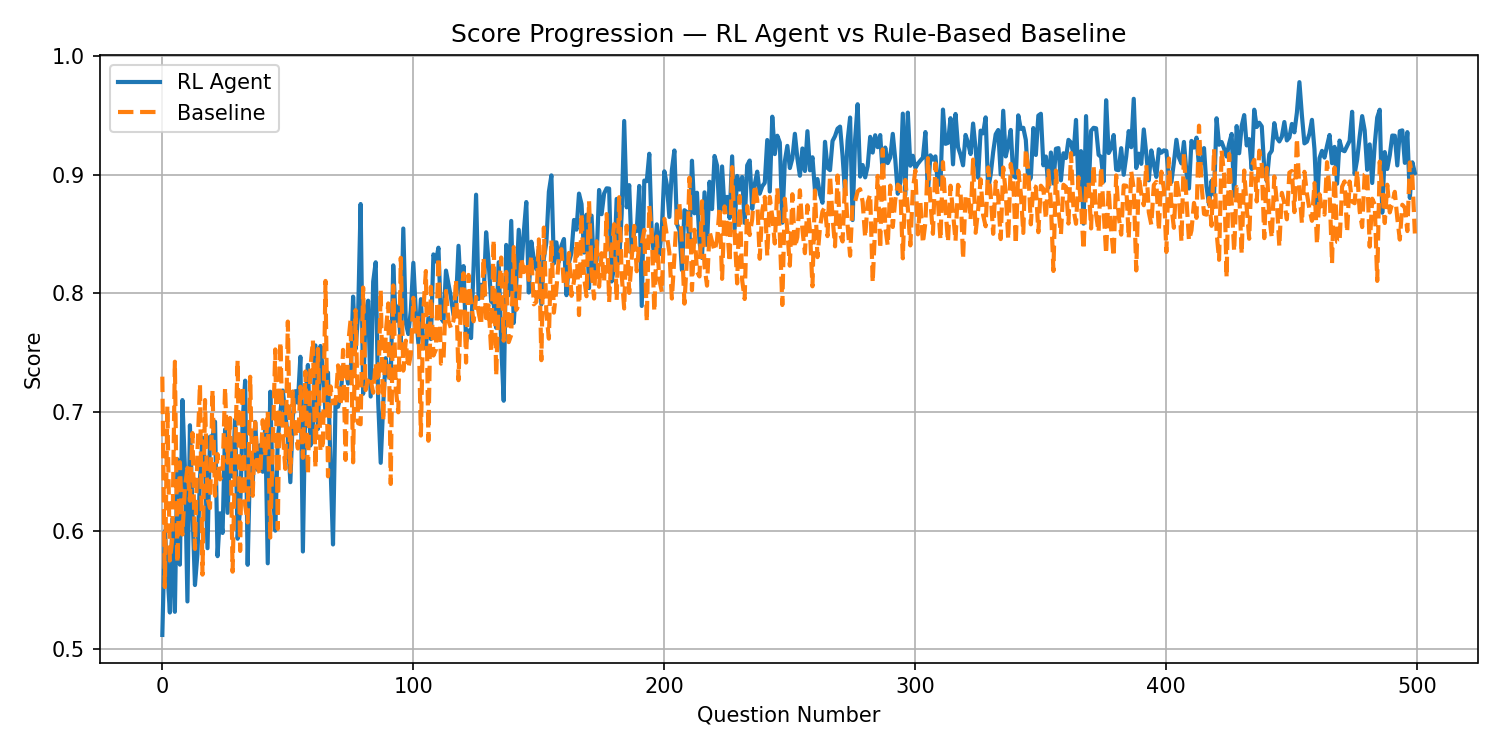
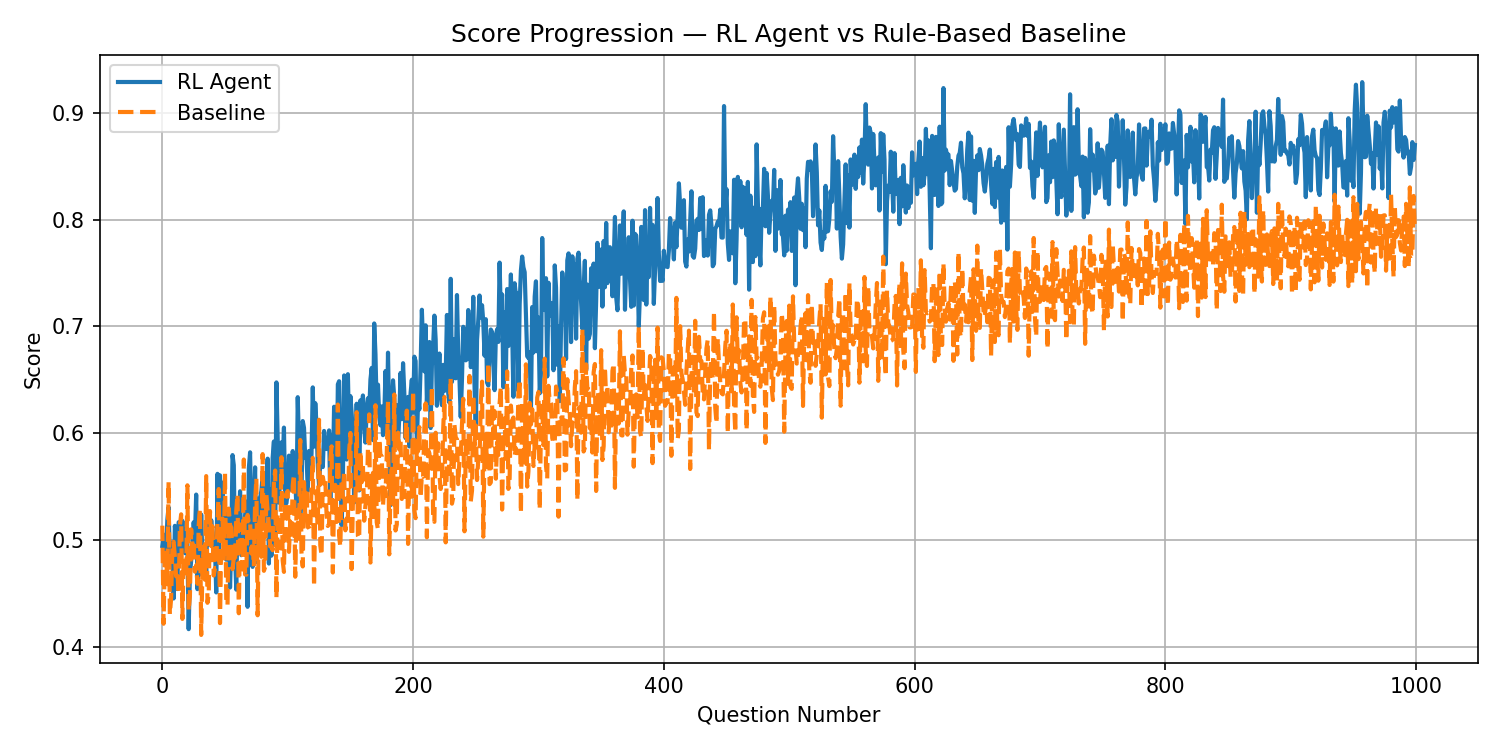
Update for prerequisite mastery + new reward
Mastery is done only when all kinds of questions with different difficulty each has score above a certain threshold. Separate loose criteria to see if a topic that is prerequisite of topic B is sufficient to unlock topic B. New rewards one for choosing topics that are prerequisites of locked topic and another for advancing to higher difficulty is defined.

diff --git a/evaluate.py b/evaluate.py
@@ -9,8 +9,8 @@ from Agent import AdaptiveAgent
 
 class RuleBasedAgent:
     
-    def __init__(self, topics_difficulty, w1, w2, w3):
-        self.ks  = KnowledgeState(topics_difficulty=topics_difficulty, window_size=10)
+    def __init__(self, topics_difficulty, prerequisites, w1, w2, w3):
+        self.ks  = KnowledgeState(topics_difficulty=topics_difficulty, prerequisites = prerequisites, window_size=10)
         self.mdp = MDP(
             list(topics_difficulty.keys()),
             difficulty_types=['basic', 'intermediate', 'advanced'],
@@ -49,13 +49,21 @@ class RuleBasedAgent:
         self.last_score = defaultdict(float)
         self.curr_diff  = {t: 'basic' for t in self.topics}
         for topic in self.topics:
-            self.ks.topic_score[topic]  = 0.0
-            self.ks.attempts[topic]     = 0
+            self.ks.topic_score[topic]   = 0.0
+            self.ks.attempts[topic]      = 0
             self.ks.recent_scores[topic].clear()
-            self.ks.prev_qtype[topic]   = (None, None)
+            self.ks.combo_scores[topic] = defaultdict(list)
+            self.ks.prev_qtype[topic]    = (None, None)
+            self.ks.current_level[topic] = {
+                'diff_idx'        : 0,
+                'qtype_idx'       : 0,
+                'earned_diff_idx' : 0,
+                'earned_qtype_idx': 0
+            }
+        self.ks.prev_topic = None
 
 
-def run_agent_session(agent, simulator, topics, n_questions, is_rl=True):
+def run_agent_session(agent, simulator, topics, n_questions, is_rl=True, student_nos = 0):
     """
     Runs one session for either agent.
     Returns:
@@ -77,7 +85,7 @@ def run_agent_session(agent, simulator, topics, n_questions, is_rl=True):
             topic, diff, qtype  = agent.select_action()
 
         score = simulator.get_score(topic, diff, qtype)
-        if is_rl:
+        if is_rl and student_nos == 0:
             print(f"Step {step}: {topic} | {diff} | {qtype} | score: {score:.2f}")
         agent.update(topic, score, diff, qtype)
 
@@ -92,12 +100,19 @@ def run_agent_session(agent, simulator, topics, n_questions, is_rl=True):
 
 
 def reset_rl_agent(agent, topics):
-    """Reset RL agent knowledge state between sessions."""
     for topic in topics:
-        agent.ks.topic_score[topic]  = 0.0
-        agent.ks.attempts[topic]     = 0
+        agent.ks.topic_score[topic]   = 0.0
+        agent.ks.attempts[topic]      = 0
         agent.ks.recent_scores[topic].clear()
-        agent.ks.prev_qtype[topic]   = (None, None)
+        agent.ks.combo_scores[topic] = defaultdict(list)
+        agent.ks.prev_qtype[topic]    = (None, None)
+        agent.ks.current_level[topic] = {
+            'diff_idx'        : 0,
+            'qtype_idx'       : 0,
+            'earned_diff_idx' : 0,
+            'earned_qtype_idx': 0
+        }
+    agent.ks.prev_topic = None
 
 
 def print_per_topic_report(topics, topics_difficulty,
@@ -134,7 +149,7 @@ def print_per_topic_report(topics, topics_difficulty,
 # Main evaluation
 # ---------------------------------------------------------------------------
 
-def evaluate(topics_difficulty, w1=0.4, w2=0.5, w3=0.1, n_students=10, n_questions=500):
+def evaluate(topics_difficulty, prerequisites, w1=0.4, w2=0.5, w3=0.1, n_students=10, n_questions=500):
     """
     Compare RL agent vs rule-based baseline on n_students simulated students.
     Both agents face identical simulated students for fair comparison.
@@ -143,8 +158,8 @@ def evaluate(topics_difficulty, w1=0.4, w2=0.5, w3=0.1, n_students=10, n_questio
     simulator = Simulator(topic_difficulty=topics_difficulty)
 
     print("Pretraining RL agent...")
-    rl_agent       = AdaptiveAgent(topics_difficulty, w1=w1, w2=w2, w3=w3)
-    baseline_agent = RuleBasedAgent(topics_difficulty, w1=w1, w2=w2, w3=w3)
+    rl_agent       = AdaptiveAgent(topics_difficulty, prerequisites, w1=w1, w2=w2, w3=w3)
+    baseline_agent = RuleBasedAgent(topics_difficulty, prerequisites, w1=w1, w2=w2, w3=w3)
     print("Pretraining done.\n")
 
     # storage
@@ -167,14 +182,14 @@ def evaluate(topics_difficulty, w1=0.4, w2=0.5, w3=0.1, n_students=10, n_questio
         baseline_agent.reset(topics_difficulty)
         simulator.mastery_topic = saved_mastery.copy()
         b_scores, b_mastered, b_mastery_steps, b_per_topic = run_agent_session(
-            baseline_agent, simulator, topics, n_questions, is_rl=False
+            baseline_agent, simulator, topics, n_questions, is_rl=False, student_nos = student
         )
 
         # --- run RL agent (same student) ---
         reset_rl_agent(rl_agent, topics)
         simulator.mastery_topic = saved_mastery.copy()
         rl_scores, rl_mastered, rl_mastery_steps, rl_per_topic = run_agent_session(
-            rl_agent, simulator, topics, n_questions, is_rl=True
+            rl_agent, simulator, topics, n_questions, is_rl=True, student_nos = student
         )
 
         # store results
@@ -206,7 +221,9 @@ def evaluate(topics_difficulty, w1=0.4, w2=0.5, w3=0.1, n_students=10, n_questio
     print(f"{'Metric':<30} {'Baseline':>10} {'RL Agent':>10}")
     print("="*55)
     print(f"{'Avg Final Score':<30} {baseline_avg_score:>10.3f} {rl_avg_score:>10.3f}")
-    print(f"{'Avg Topics Mastered':<30} {baseline_avg_mastered:>10.2f} {rl_avg_mastered:>10.2f}")
+    print(f"{'Avg Topics Mastered':<30} "
+      f"{np.mean(baseline_mastered_all):>6.2f} ± {np.std(baseline_mastered_all):.2f}   "
+      f"{np.mean(rl_mastered_all):>6.2f} ± {np.std(rl_mastered_all):.2f}")
     print("="*55)
 
     # per topic breakdown
@@ -252,7 +269,6 @@ def evaluate(topics_difficulty, w1=0.4, w2=0.5, w3=0.1, n_students=10, n_questio
 
 
 if __name__ == "__main__":
-
     topics_difficulty = {
         "Neural Networks"     : "advanced",
         "Gradient Descent"    : "intermediate",
@@ -261,9 +277,12 @@ if __name__ == "__main__":
         "Overfitting"         : "intermediate"
     }
 
-    evaluate(
-        topics_difficulty,
-        w1=0.4, w2=0.5, w3=0.1,
-        n_students=10,
-        n_questions=500
-    )
+    prerequisites = {
+        "Neural Networks"     : [],
+        "Gradient Descent"    : [],
+        "Activation Functions": [],
+        "Overfitting"         : ["Neural Networks"],
+        "Backpropagation"     : ["Neural Networks", "Gradient Descent"]
+    }
+
+    evaluate(topics_difficulty, prerequisites, w1=0.4, w2=0.5, w3=0.1, n_students=50, n_questions=1000)

diff --git a/knowledge_state.py b/knowledge_state.py
@@ -14,10 +14,11 @@ class KnowledgeState:
         self.recent_scores = defaultdict(lambda: deque(maxlen=window_size))  
         self.attempts = defaultdict(int)
         self.prev_qtype = defaultdict(lambda: (None,None))
+        self.combo_scores = defaultdict(lambda: defaultdict(list))
         self.current_level = {topic: {'diff_idx': 0, 'qtype_idx': 0,'earned_diff_idx': 0, 'earned_qtype_idx': 0} for topic in self.topics }
         self.prev_topic = None
 
-        self.master_thresh = {'basic' : 0.90, 'intermediate' : 0.85, 'advanced':0.75}
+        self.master_thresh = {'basic' : 0.75, 'intermediate' : 0.65, 'advanced':0.55}
         self.ordinal_order_difficulty = {'basic' : 0.2, 'intermediate' : 0.6, 'advanced': 1}
         self.question_type_encoding = {'factual' : 0.2, 'inferential' : 0.6, 'evaluative': 1}
         self.diff_order    = {'basic' : 0, 'intermediate' : 1, 'advanced': 2}
@@ -26,9 +27,15 @@ class KnowledgeState:
 
     def prerequisites_met(self, topic):
         for prereq in self.prerequisites_topic.get(topic, []):
-            if not self.is_mastered(prereq):
+            if not self.is_sufficiently_understood(prereq):
                 return False
         return True
+    
+    def is_sufficiently_understood(self, topic):
+        topic_difficulty = self.topics_difficulty[topic]
+        sufficiency_thresh = {'basic' : 0.65, 'intermediate' : 0.55, 'advanced' : 0.45}
+        threshold = sufficiency_thresh[topic_difficulty]
+        return (self.attempts[topic] >= 5 and self.topic_score[topic] >= threshold and self.trend(topic) >= 0)
 
     def update(self, topic, score, difficulty,question_type):
         
@@ -37,7 +44,27 @@ class KnowledgeState:
         self.recent_scores[topic].append(score)       
         self.prev_qtype[topic] = (difficulty, question_type)
         self.prev_topic = topic
+        self.combo_scores[topic][(difficulty, question_type)].append(score)
         self.update_current_level(topic, difficulty, question_type)
+
+    def get_combo_threshold(self, topic, difficulty, question_type):
+        topic_base = self.master_thresh[self.topics_difficulty[topic]]
+        
+        # adjustment based on question difficulty
+        diff_adjustment = {
+            'basic'        :  0.10,   
+            'intermediate' :  0.05,
+            'advanced'     :  0.00    
+        }
+        
+        # adjustment based on question type
+        qtype_adjustment = {
+            'factual'     :  0.05,   
+            'inferential' :  0.02,
+            'evaluative'  :  0.00    
+        }
+        
+        return (topic_base + diff_adjustment[difficulty] + qtype_adjustment[question_type])
 
     def update_current_level(self, topic, difficulty, question_type):
         diff_idx  = self.diff_order[difficulty]
@@ -80,11 +107,31 @@ class KnowledgeState:
         slope = float(np.polyfit(x, recent, 1)[0])
         return float(np.clip(slope, -1.0, 1.0))
 
-    def is_mastered(self, topic,min_attempts= 3):
+    def is_mastered(self, topic, min_attempts=3):
         topic_difficulty = self.topics_difficulty[topic]
-        threshold = self.master_thresh[topic_difficulty]
-        trend_eval = self.trend(topic)
-        return (self.attempts[topic] >= min_attempts and self.topic_score[topic] >= threshold and trend_eval >= 0)
+        threshold        = self.master_thresh[topic_difficulty]
+        trend_eval       = self.trend(topic)
+
+        if self.attempts[topic] < min_attempts or trend_eval < 0:
+            return False
+
+        all_combos = {
+            (d, q)
+            for d in difficulty_level
+            for q in question_types
+        }
+
+        
+        for combo in all_combos:
+            diff, qtype = combo
+            scores = self.combo_scores[topic][combo]
+            if not scores:                          
+                return False
+            threshold = self.get_combo_threshold(topic, diff, qtype)
+            if np.mean(scores) < threshold:         
+                return False
+
+        return True
 
     def is_neglected(self, topic):
         return self.attempts[topic] == 0

diff --git a/Agent.py b/Agent.py
@@ -6,6 +6,7 @@ from MDP import MDP
 from policy_network import PolicyNetwork
 from Simulator import Simulator
 import matplotlib.pyplot as plt
+from collections import defaultdict, deque
 
 class AdaptiveAgent:
 
@@ -51,6 +52,7 @@ class AdaptiveAgent:
             self.ks.attempts[topic] = 0
             self.ks.recent_scores[topic].clear()
             self.ks.prev_qtype[topic] = (None, None)
+            self.ks.combo_scores[topic] = defaultdict(list)
             self.ks.current_level[topic] = { 'diff_idx' : 0, 'qtype_idx' : 0, 'earned_diff_idx' : 0, 'earned_qtype_idx': 0}
         self.ks.prev_topic = None
 
@@ -64,11 +66,14 @@ class AdaptiveAgent:
             entropies.append(entropy)
             topic, difficulty, question_type = self.mdp.decode(action_idx)
 
+            old_earned_diff  = self.ks.current_level[topic]['earned_diff_idx']
+            old_earned_qtype = self.ks.current_level[topic]['earned_qtype_idx']
+
             prev_score = self.ks.topic_score[topic]
             score = self.simulator.get_score(topic, difficulty, question_type)
             self.ks.update(topic, score, difficulty, question_type)
 
-            reward = self.mdp.compute_reward(self.ks, topic, score, prev_score)
+            reward = self.mdp.compute_reward(self.ks, topic, score, prev_score, old_earned_diff, old_earned_qtype)
 
             log_probs.append(log_prob)
             rewards.append(reward)
@@ -100,8 +105,10 @@ class AdaptiveAgent:
     
     def update(self, topic, score, difficulty, question_type):
         prev_score = self.ks.topic_score[topic]
+        old_earned_diff  = self.ks.current_level[topic]['earned_diff_idx']
+        old_earned_qtype = self.ks.current_level[topic]['earned_qtype_idx']
         self.ks.update(topic, score, difficulty, question_type)
-        return self.mdp.compute_reward(self.ks, topic, score, prev_score)
+        return self.mdp.compute_reward(self.ks, topic, score, prev_score, old_earned_diff, old_earned_qtype)
 
     def pretrain(self, n_episodes=3000, n_questions=100, gamma=0.99):
         total_losses = []

diff --git a/MDP.py b/MDP.py
@@ -1,12 +1,14 @@
 
 class MDP:
-    def __init__(self, topics, difficulty_types, q_types, w1, w2, w3):
+    def __init__(self, topics, difficulty_types, q_types, w1, w2, w3, w4 = 0.1, w5 = 0.2):
         self.int_to_actions = {}
         self.actions_to_int = {}
         self.n_actions = len(topics) * len(difficulty_types) * len(q_types)
         self.w1 = w1
         self.w2 = w2
         self.w3 = w3
+        self.w4 = w4
+        self.w5 = w5
 
         for topic in topics:
             for diff_type in difficulty_types:
@@ -22,7 +24,7 @@ class MDP:
     def decode(self, action_idx):
         return self.int_to_actions.get(action_idx, -1)
     
-    def compute_reward(self, ks, topic, score, prev_score):
+    def compute_reward(self, ks, topic, score, prev_score, old_earned_diff, old_earned_qtype):
         #ks -> obj of KnowledgeState
         improvement = score - prev_score
         if score < 0.3 and ks.attempts[topic] > 3:
@@ -37,7 +39,17 @@ class MDP:
             coverage_bonus = 0.4
         else:
             coverage_bonus = 0.0
+
+        prereq_bonus = 0.0
+        for other_topic in ks.topics:
+            prereqs = ks.prerequisites_topic.get(other_topic, [])
+            if topic in prereqs and not ks.prerequisites_met(other_topic):
+                progress = ks.topic_score[topic] 
+                prereq_bonus += 0.2 * progress
         
-        
+        new_earned_diff  = ks.current_level[topic]['earned_diff_idx']
+        new_earned_qtype = ks.current_level[topic]['earned_qtype_idx']
+        advancement_bonus = 0.2 if ( new_earned_diff  > old_earned_diff or new_earned_qtype > old_earned_qtype) else 0.0
         mastery_penalty = 1.0 if ks.is_mastered(topic) else 0.0
-        return self.w1 * improvement + self.w2 * coverage_bonus - self.w3 * mastery_penalty
+
+        return self.w1 * improvement + self.w2 * coverage_bonus + self.w4 * advancement_bonus + self.w5 * prereq_bonus - self.w3 * mastery_penalty
